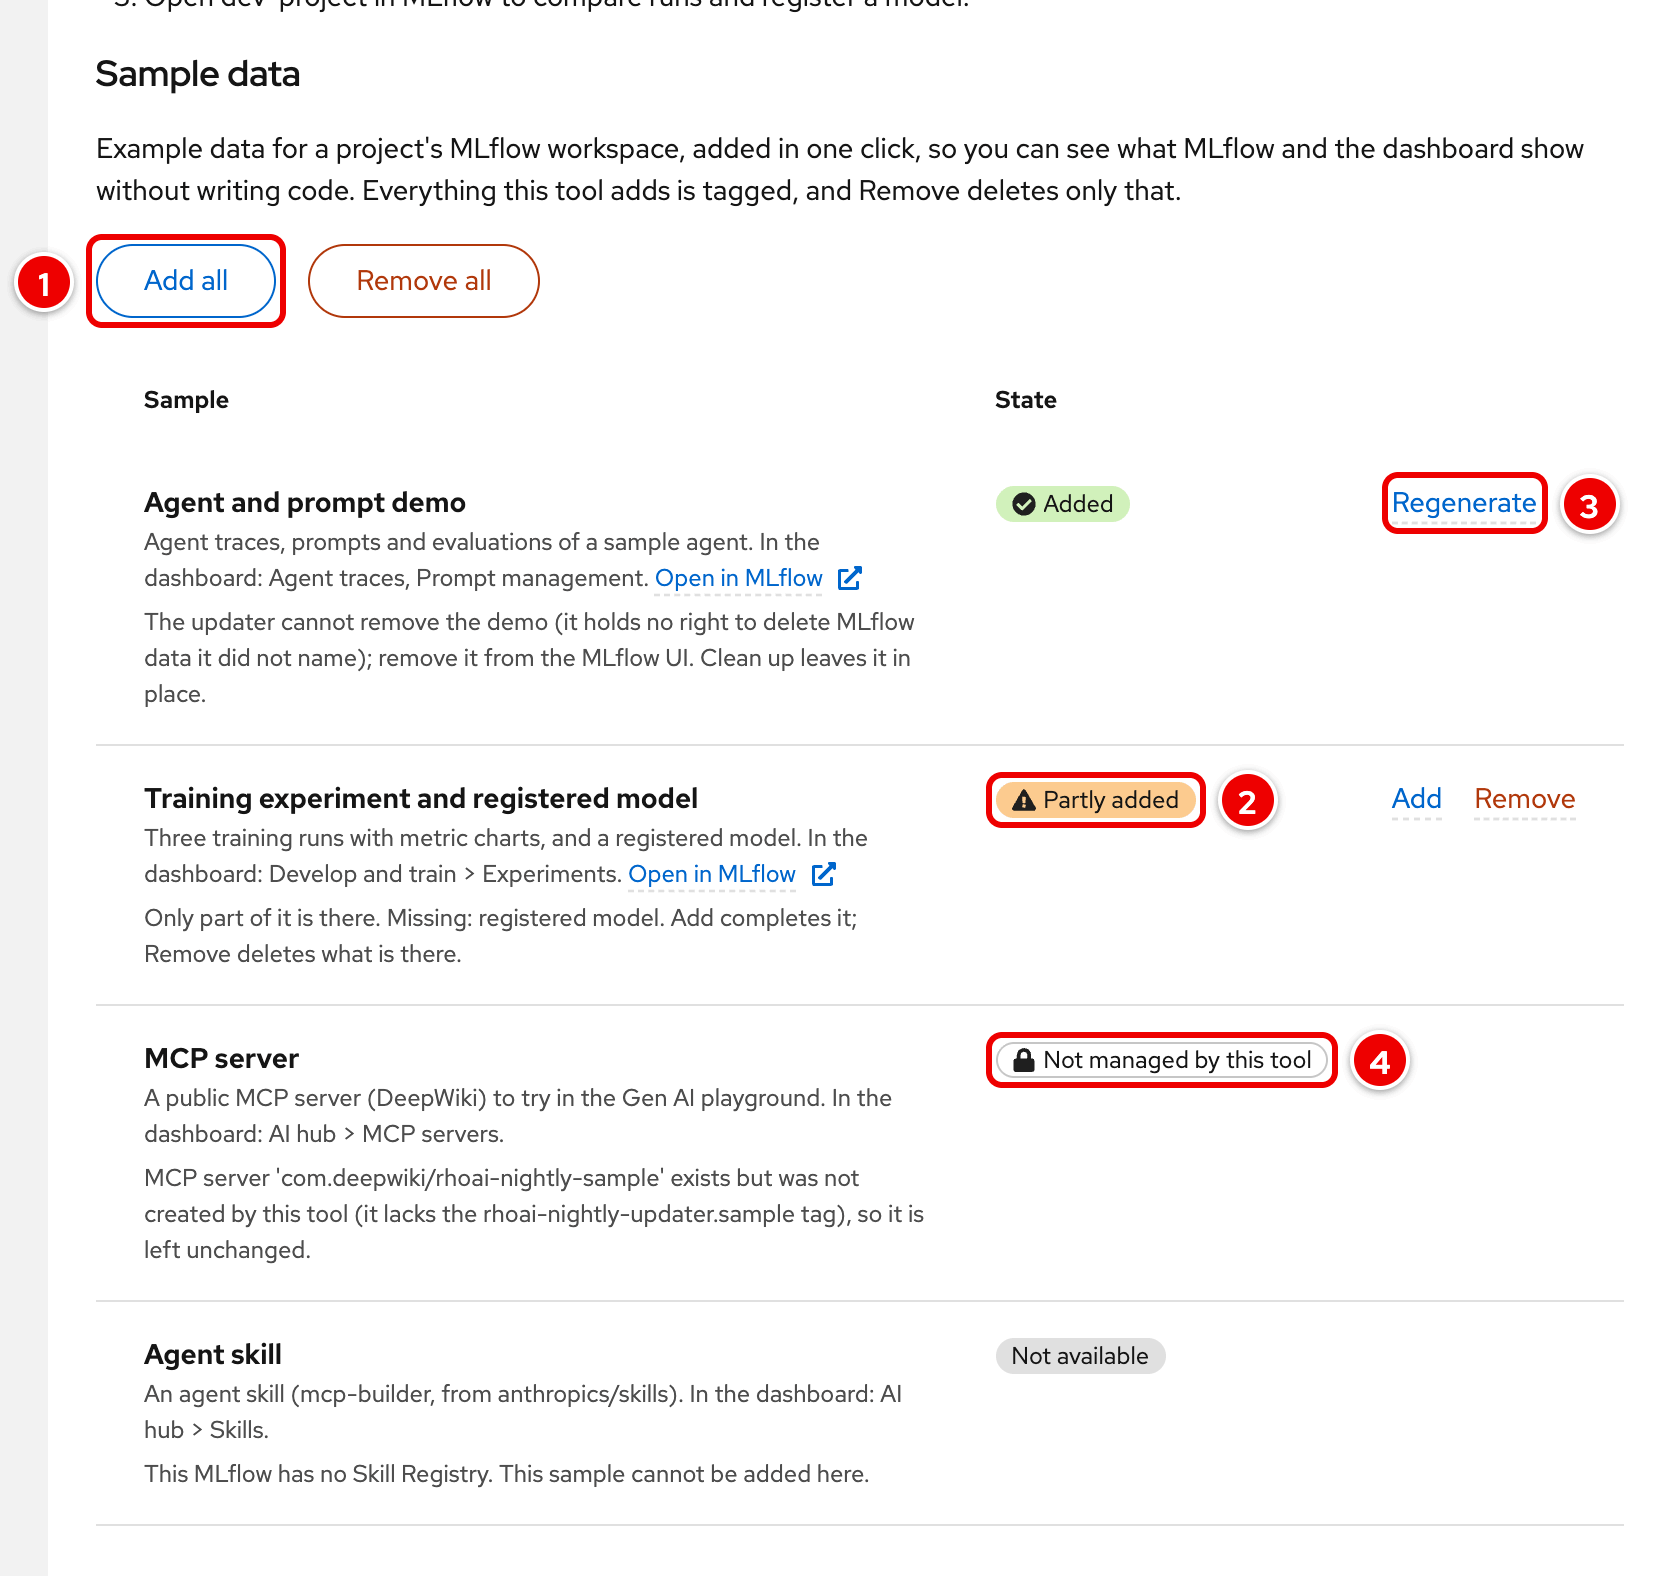
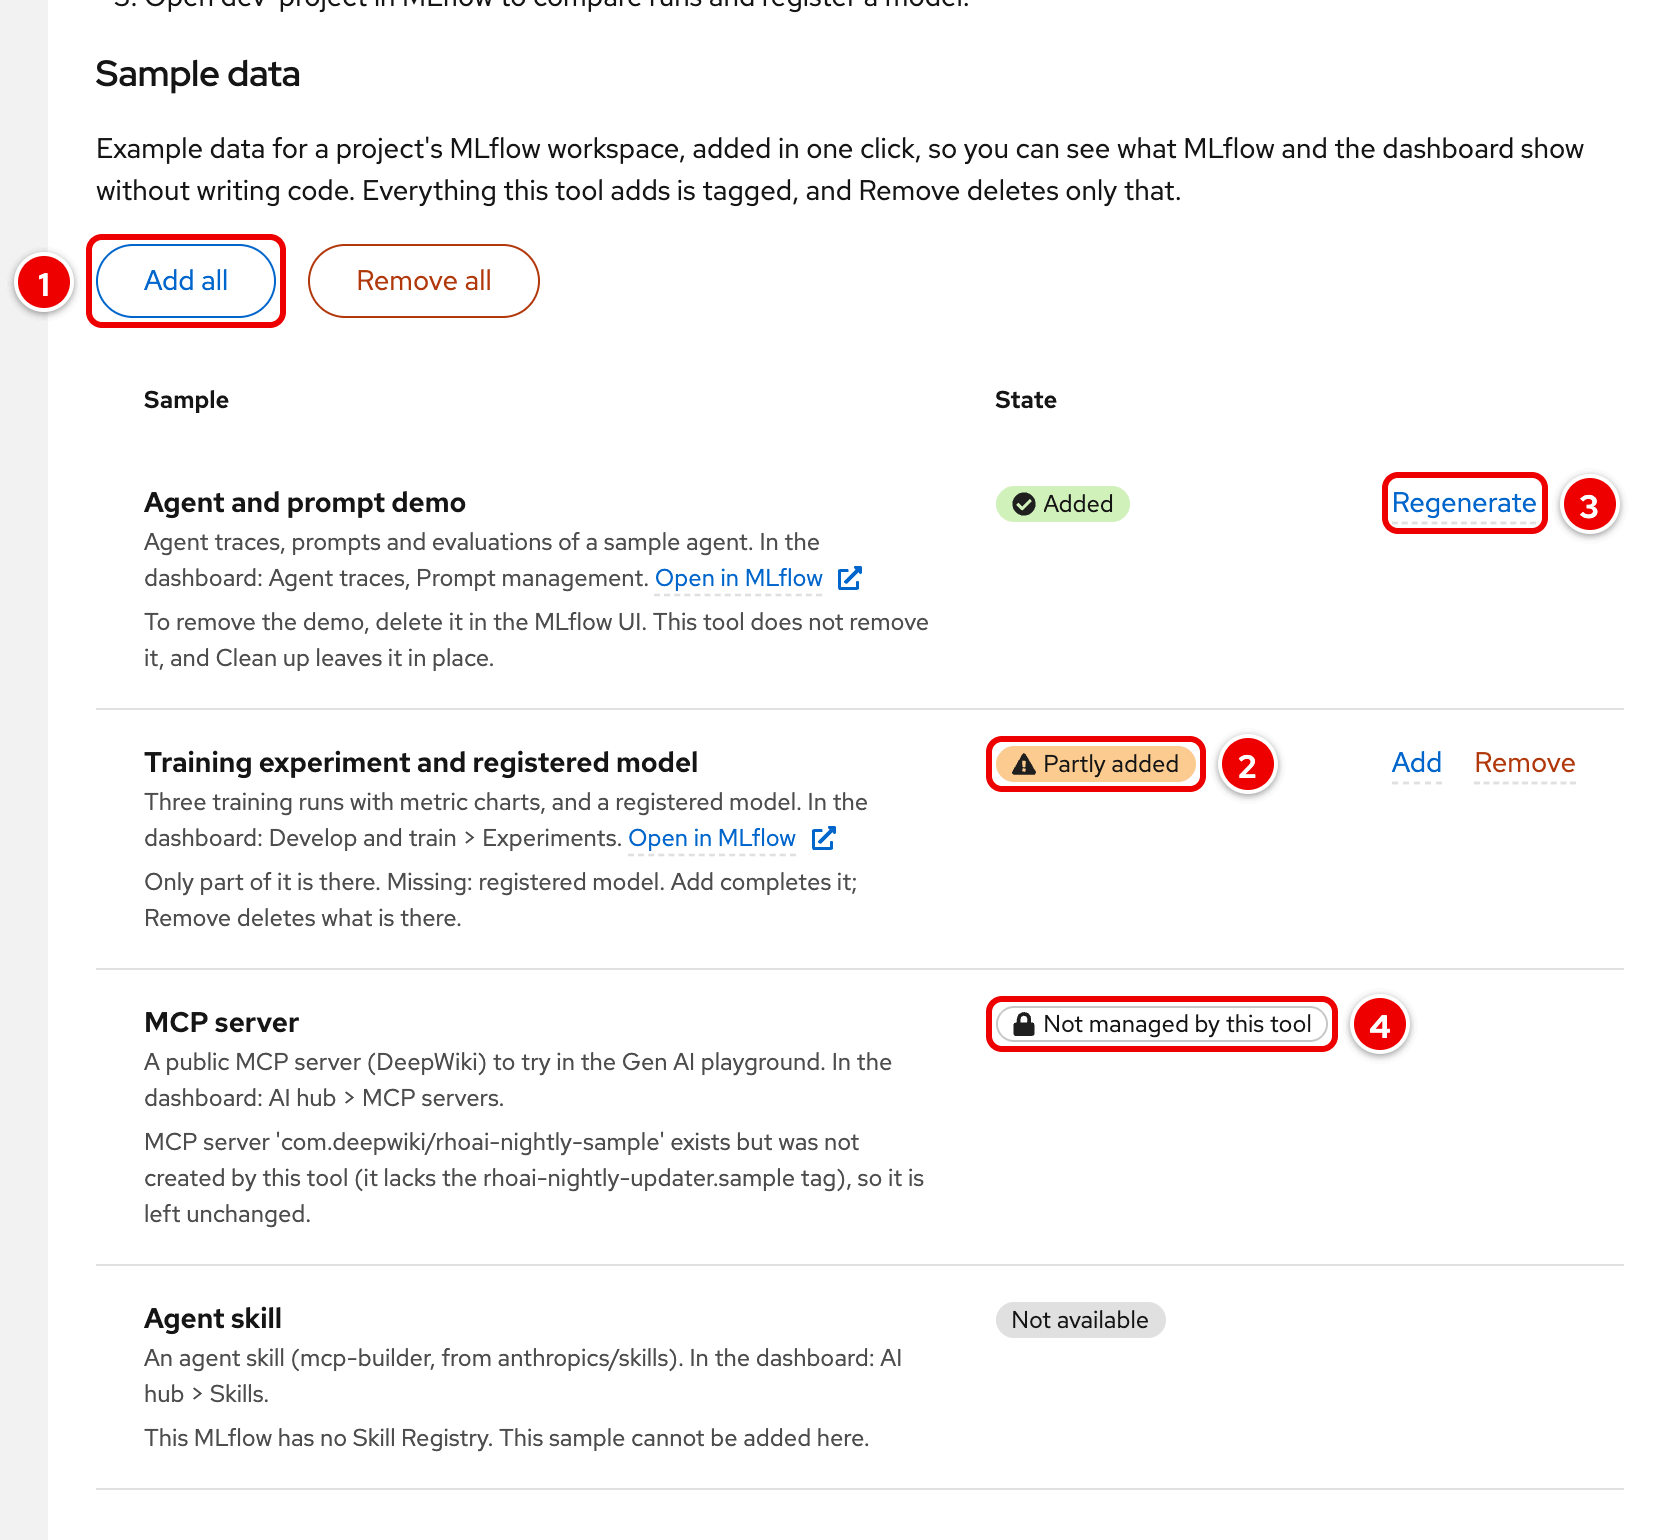
Samples: plain wording for the demo's removal and an empty Remove all
On the live MLflow tab, Remove all said "No sample that this tool added
is here." right above the demo marked Added, which reads as a
contradiction; it now says "Nothing here that this tool can remove." The
demo's note dropped the permission jargon: "To remove the demo, delete it
in the MLflow UI. This tool does not remove it, and Clean up leaves it in
place."

diff --git a/frontend/src/components/environment/samples.test.tsx b/frontend/src/components/environment/samples.test.tsx
@@ -32,7 +32,7 @@ const sample = (id: SampleStatus["id"], state: SampleStatus["state"], over: Part
   actions: state === "absent" || state === "removed" ? ["add"] : state === "present" ? (id === "genai-demo" ? ["regenerate"] : ["remove"]) : state === "partial" ? (id === "genai-demo" ? ["regenerate"] : ["add", "remove"]) : [],
   ...over,
 });
-const DEMO_HINT = "The updater cannot remove the demo (it holds no right to delete MLflow data it did not name); remove it from the MLflow UI. Clean up leaves it in place.";
+const DEMO_HINT = "To remove the demo, delete it in the MLflow UI. This tool does not remove it, and Clean up leaves it in place.";
 const mlflowSamples = (samples: SampleStatus[], over: Partial<MLflowSamplesStatus> = {}): MLflowSamplesStatus => ({ project: "dev", available: true, mlflowURL: MLFLOW_URL, samples, ...over });
 
 const status = (over: Partial<ResourcesStatus> = {}): ResourcesStatus => ({ minio: readyMinio, mlflow: ownMlflow, pipelineServers: [dspa("dev")], ...over });
@@ -111,7 +111,7 @@ describe("MLflow tab: Sample data", () => {
     expect(within(demo).getByRole("button", { name: "Regenerate agent and prompt demo" })).toBeInTheDocument();
     // The demo is never removed by the tool: its note says how.
     expect(within(demo).queryByRole("button", { name: /^Remove/ })).not.toBeInTheDocument();
-    expect(demo).toHaveTextContent("remove it from the MLflow UI");
+    expect(demo).toHaveTextContent("delete it in the MLflow UI");
     expect(within(demo).getByRole("link", { name: "Open in MLflow" })).toHaveAttribute("href", `${MLFLOW_URL}/#/experiments/7?workspace=dev`);
 
     const training = row("Training experiment and registered model");

diff --git a/frontend/src/components/environment/samples.tsx b/frontend/src/components/environment/samples.tsx
@@ -71,7 +71,7 @@ export const samplesFor = (samples: SampleStatus[], action: "add" | "remove") =>
 
 /** Why Add all or Remove all has nothing to do, or null. */
 export const bulkEmptyReason = (action: "add" | "remove") =>
-  action === "add" ? "Every sample that can be added is added already." : "No sample that this tool added is here.";
+  action === "add" ? "Every sample that can be added is added already." : "Nothing here that this tool can remove.";
 
 export const READ_ONLY_SAMPLES = "Read-only access: adding or removing sample data needs a cluster-admin. Ask one to do it for you.";
 

diff --git a/pkg/cluster/samples_demo.go b/pkg/cluster/samples_demo.go
@@ -47,7 +47,7 @@ const (
 )
 
 // demoRemoveHint tells the user how to remove the demo without the tool.
-const demoRemoveHint = "The updater cannot remove the demo (it holds no right to delete MLflow data it did not name); remove it from the MLflow UI. Clean up leaves it in place."
+const demoRemoveHint = "To remove the demo, delete it in the MLflow UI. This tool does not remove it, and Clean up leaves it in place."
 
 // demoVersionTags returns the demo's feature version tags: feature -> value.
 func demoVersionTags(e *mlflowExperiment) map[string]string {

diff --git a/pkg/cluster/samples_status_test.go b/pkg/cluster/samples_status_test.go
@@ -111,7 +111,7 @@ func TestMLflowSamplesStatus_Demo(t *testing.T) {
 		t.Errorf("link = %q", s.Link)
 	}
 	demo.tags[demoVersionTagPrefix+"evaluation"], demo.tags[demoVersionTagPrefix+"issues"] = "2", "4"
-	if s := env.status(t)[SampleGenAIDemo]; s.State != "present" || !strings.Contains(s.Message, "cannot remove") {
+	if s := env.status(t)[SampleGenAIDemo]; s.State != "present" || !strings.Contains(s.Message, "delete it in the MLflow UI") {
 		t.Errorf("complete: %+v", s)
 	}
 	demo.tags = map[string]string{}
